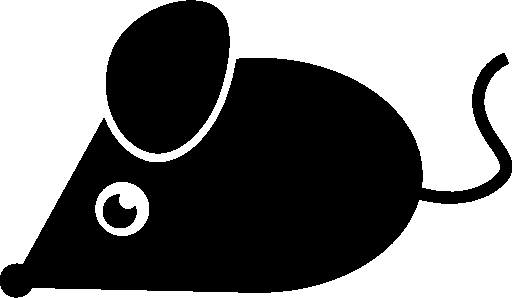
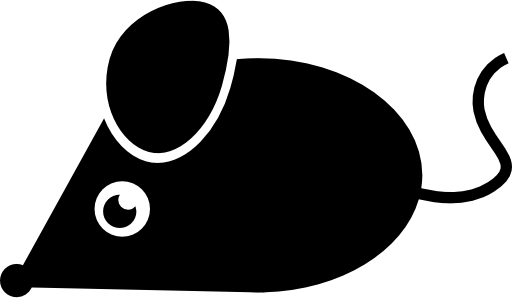
implement about window, not using about-window package

diff --git a/src/renderer/components/About.vue b/src/renderer/components/About.vue
@@ -1,0 +1,44 @@
+<template>
+    <BModal v-model="show_about" title="About this app" size="lg" :centered="true" :no-footer="true">
+        <div class="about-container">
+            <img src="/img/mouse_trim.png" alt="Logo" :style="{opacity: 0.5}" />
+            <h1>moseq-reports {{ version }}</h1>
+            <h3>{{ description }}</h3>
+
+            <p>{{ copyright }}</p>
+
+            <table>
+                <tbody>
+                    <tr v-for="[name, value] in versions" :key="name">
+                        <td>{{ name }}</td>
+                        <td>{{ value }}</td>
+                    </tr>
+                </tbody>
+            </table>
+            <a :href="homepage" target="_blank">Homepage</a>
+            <a :href="bugs.url" target="_blank">Report an issue</a>
+        </div>
+    </BModal>
+</template>
+<script lang="ts">
+export const show_about = ref(false);
+</script>
+
+<script setup lang="ts">
+import {version, description, bugs, homepage} from '@render/../../package.json'
+import { ref } from 'vue';
+
+
+const copyright = `© 2019-${new Date().getFullYear()} Jay A. Tischfield Lab`;
+const versions = ['electron', 'chrome', 'node', 'v8'].map(e => [e, process.versions[e]]);
+
+</script>
+
+<style scoped>
+.about-container {
+    display: flex;
+    flex-direction: column;
+    align-items: center;
+    text-align: center;
+}
+</style>

diff --git a/src/electron/preload/MenuStrip.ts b/src/electron/preload/MenuStrip.ts
@@ -1,6 +1,5 @@
 import { Menu } from "@electron/remote";
 import { MenuComponentRegistration, IMenuAPI, IMenuAPIPreload } from "../shared/menuAPI";
-import showAboutWindow from "../../renderer/commands/ShowAbout";
 import { Titlebar, TitlebarColor } from "custom-electron-titlebar";
 // Future: import { CheckUpdates } from "../../renderer/commands/LoadUpdates";
 // Future: import { documentation } from "../../../package.json";
@@ -139,7 +138,7 @@ function createMainMenuStripOptions(menuBarManager: MenuBarManager): Electron.Me
             {
                 label: "About",
                 type: "normal",
-                click: () => showAboutWindow(),
+                click: () => window.menuAPI.renderer.showAboutWindow(),
             },
             // {
             //   label: "User Guide",

diff --git a/src/renderer/commands/index.ts b/src/renderer/commands/index.ts
@@ -6,6 +6,7 @@ import CreateComponent from "./CreateComponent";
 import { SnapshotWorkspace } from "@render/components/Core/SnapshotHelper";
 import { SetSidebarLeft, SetSidebarRight } from "./SidebarPosition";
 import LoadLayout, { ClearLayout, LoadDefaultLayout, SaveLayout } from "./LoadLayout";
+import showAboutWindow from "./ShowAbout";
 
 const MenuBridge: IMenuAPIRenderer = {
     openData: () => LoadData(),
@@ -24,7 +25,8 @@ const MenuBridge: IMenuAPIRenderer = {
     saveLayout: () => SaveLayout(),
     loadLayout: () => LoadLayout(),
     loadDefaultLayout: () => LoadDefaultLayout(),
-    clearLayout: () => ClearLayout()
+    clearLayout: () => ClearLayout(),
+    showAboutWindow: () => showAboutWindow(),
 }
 if (!window.menuAPI) {
     window.menuAPI = {} as IMenuAPI;

diff --git a/src/renderer/commands/LoadLayout.ts b/src/renderer/commands/LoadLayout.ts
@@ -63,12 +63,13 @@ export async function LoadDefaultLayout(showNotifications = true) {
  * @param showNotifications - Whether to show notifications for the operation.
  */
 export async function LoadLayoutFile(filename: string, showNotifications = true) {
-    const windowsStore = useWindowsStore();
-    const filtersStore = useFiltersStore();
     let loading_toast;
     if (showNotifications) {
         loading_toast = showStartLoadingToast("Loading Layout", 'Hang tight... We\'re getting your layout ready.');
     }
+
+    const windowsStore = useWindowsStore();
+    const filtersStore = useFiltersStore();
 
     try {
         const content = await new Promise<unknown>((resolve, reject) => {

diff --git a/src/renderer/pages/Home.vue b/src/renderer/pages/Home.vue
@@ -5,6 +5,7 @@
     <WindowContainer />
     <FileDropAcceptor />
     <BToastOrchestrator />
+    <About />
   </div>
 </template>
 
@@ -16,6 +17,7 @@ import FileDropAcceptor from "@render/components/FileDropAcceptor.vue";
 import WindowContainer from "@render/components/Core/Window/WindowContainer.vue";
 import { useSidebarStore, SidebarPosition } from "@store/sidebar.store";
 import { useDatasetsStore } from "@store/datasets.store";
+import About from "@render/components/About.vue";
 
 
 
@@ -26,6 +28,7 @@ export default defineComponent({
         NoDataPresent,
         FileDropAcceptor,
         WindowContainer,
+        About,
     },
     computed: {
         title() {

diff --git a/src/renderer/commands/ShowAbout.ts b/src/renderer/commands/ShowAbout.ts
@@ -1,14 +1,5 @@
-import { app, BrowserWindow, ipcMain } from "@electron/remote";
-import openAboutWindow from "about-window";
+import {show_about} from "@render/components/About.vue";
 
 export default function showAboutWindow() {
-    openAboutWindow({
-        icon_path: "public/img/mouse.png",
-        ipcMain: ipcMain,
-        app: app,
-        BrowserWindow: BrowserWindow,
-        // icon_path: path.join(__static, "img", "mouse.png"),
-        // package_json_dir: packageJsonDir,
-        // open_devtools: isDevelopment,
-    });
+    show_about.value = true;
 }

diff --git a/src/electron/shared/menuAPI.ts b/src/electron/shared/menuAPI.ts
@@ -28,6 +28,7 @@ export interface IMenuAPIRenderer {
     loadLayout: () => void,
     loadDefaultLayout: () => void,
     clearLayout: () => void,
+    showAboutWindow: () => void,
 }
 export interface IMenuAPI {
     preload: IMenuAPIPreload;
